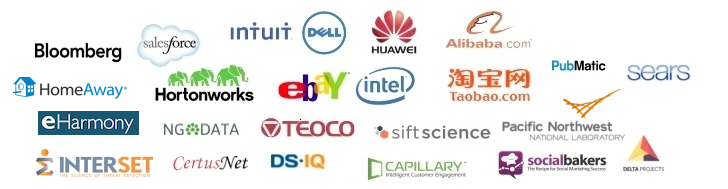
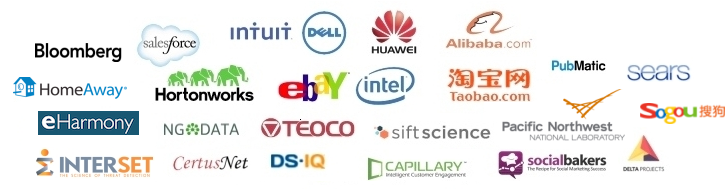
Add Sogou to Who's Using page

Changed region(s): [[0.8764, 0.5291, 0.9973, 0.6614]]

diff --git a/site/publish/who_is_using.html b/site/publish/who_is_using.html
@@ -1,7 +1,7 @@
 
 <!DOCTYPE html>
 <!--
- Generated by Apache Maven Doxia at 2017-02-06
+ Generated by Apache Maven Doxia at 2017-03-10
  Rendered using Reflow Maven Skin 1.1.0 (http://andriusvelykis.github.io/reflow-maven-skin)
 -->
 <html  xml:lang="en" lang="en">
@@ -252,6 +252,9 @@
       </tr> 
       <tr class="b"> 
        <td> <img src="images/using/dp.png" alt="" /> <br /><br /> At Delta Projects we use Phoenix for storing data as a basis for measuring activities and generating reports. We chose Phoenix because it provides the scalability of HBase and the expressiveness of SQL.<br /><br /> Kristoffer Sj&ouml;gren, System Developer <br /></td>
+      </tr> 
+      <tr class="a"> 
+       <td> <br /> <img src="images/using/sogou.png" alt="" /> <br /><br /> We adopted Apache Phoenix since 2015, mainly for two scenarios: 1.Business Intelligence: We use HBase+Phoenix to store billion records of our Ad Exchange, thanks to the SQL abstraction and secondary indexes of Phoenix, we can provide multidimensional statistical and analytical reports to our advertisers, empowering them with thorough insight to make the intelligent decisions maximizing their investment revenue.<br /><br /> 2.Technology Infrastructure： Our Monitoring Platform and Distributed Service Tracing Platform uses HBase+Phoenix to continuously collect various metrics and logs(about 100k records per second at present) ,and with the high performance of Phoenix we can easily generate statistics for our system operation health measurement and service dependency analysis.<br /><br /> Cheng Lei, Infrastructure Software Enginner<br /></td>
       </tr> 
      </tbody>
     </table> 

diff --git a/site/publish/language/datatypes.html b/site/publish/language/datatypes.html
@@ -1,7 +1,7 @@
 
 <!DOCTYPE html>
 <!--
- Generated by Apache Maven Doxia at 2017-03-06
+ Generated by Apache Maven Doxia at 2017-03-10
  Rendered using Reflow Maven Skin 1.1.0 (http://andriusvelykis.github.io/reflow-maven-skin)
 -->
 <html  xml:lang="en" lang="en">

diff --git a/site/publish/language/functions.html b/site/publish/language/functions.html
@@ -1,7 +1,7 @@
 
 <!DOCTYPE html>
 <!--
- Generated by Apache Maven Doxia at 2017-03-06
+ Generated by Apache Maven Doxia at 2017-03-10
  Rendered using Reflow Maven Skin 1.1.0 (http://andriusvelykis.github.io/reflow-maven-skin)
 -->
 <html  xml:lang="en" lang="en">

diff --git a/site/publish/language/index.html b/site/publish/language/index.html
@@ -1,7 +1,7 @@
 
 <!DOCTYPE html>
 <!--
- Generated by Apache Maven Doxia at 2017-03-06
+ Generated by Apache Maven Doxia at 2017-03-10
  Rendered using Reflow Maven Skin 1.1.0 (http://andriusvelykis.github.io/reflow-maven-skin)
 -->
 <html  xml:lang="en" lang="en">

diff --git a/site/source/src/site/markdown/who_is_using.md b/site/source/src/site/markdown/who_is_using.md
@@ -299,6 +299,17 @@ it provides the scalability of HBase and the expressiveness of SQL.<br/><br/>
 Kristoffer Sjögren, System Developer
 <br/></td></tr>
 
+<tr><td>
+<br/>
+<img src="images/using/sogou.png"/>
+<br/><br/>
+
+We adopted Apache Phoenix since 2015, mainly for two scenarios:
+1.Business Intelligence: We use HBase+Phoenix to store billion records of our Ad Exchange,  thanks to the SQL abstraction and secondary indexes of Phoenix, we can provide multidimensional statistical and analytical  reports to our advertisers, empowering them with thorough insight to make the intelligent decisions maximizing their investment revenue.<br/><br/>
+2.Technology Infrastructure： Our Monitoring Platform and  Distributed Service Tracing Platform  uses HBase+Phoenix  to continuously collect various metrics and logs(about 100k records per second at present) ,and with the high performance of Phoenix we can easily generate statistics for our system operation health measurement and service dependency analysis.<br/><br/>
+
+Cheng Lei,  Infrastructure Software Enginner<br/></td></tr>
+
 </table>
 <!--End Second Column-->
 </td>
